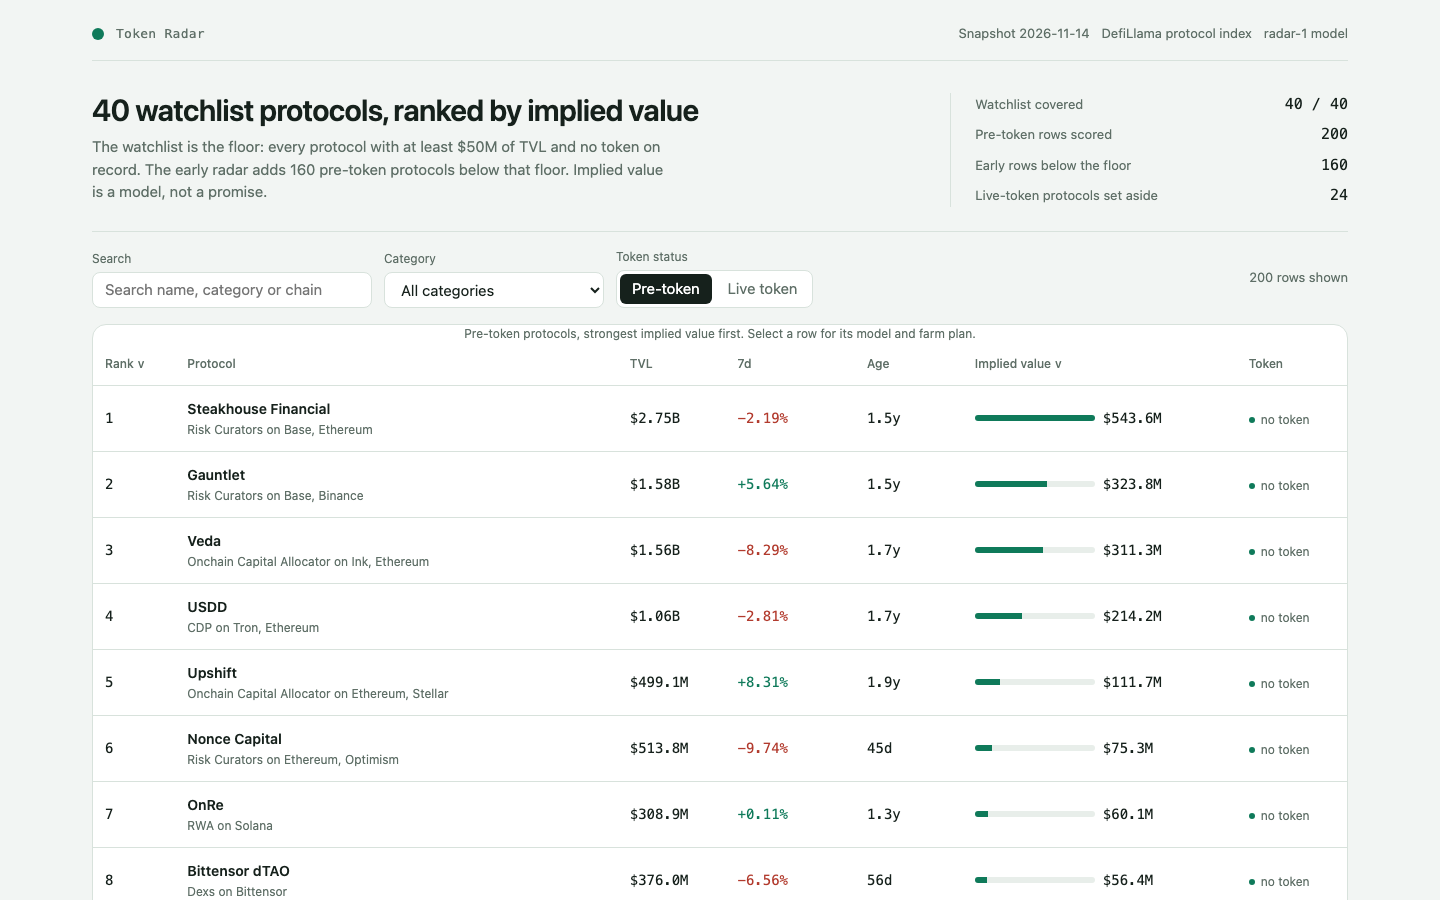
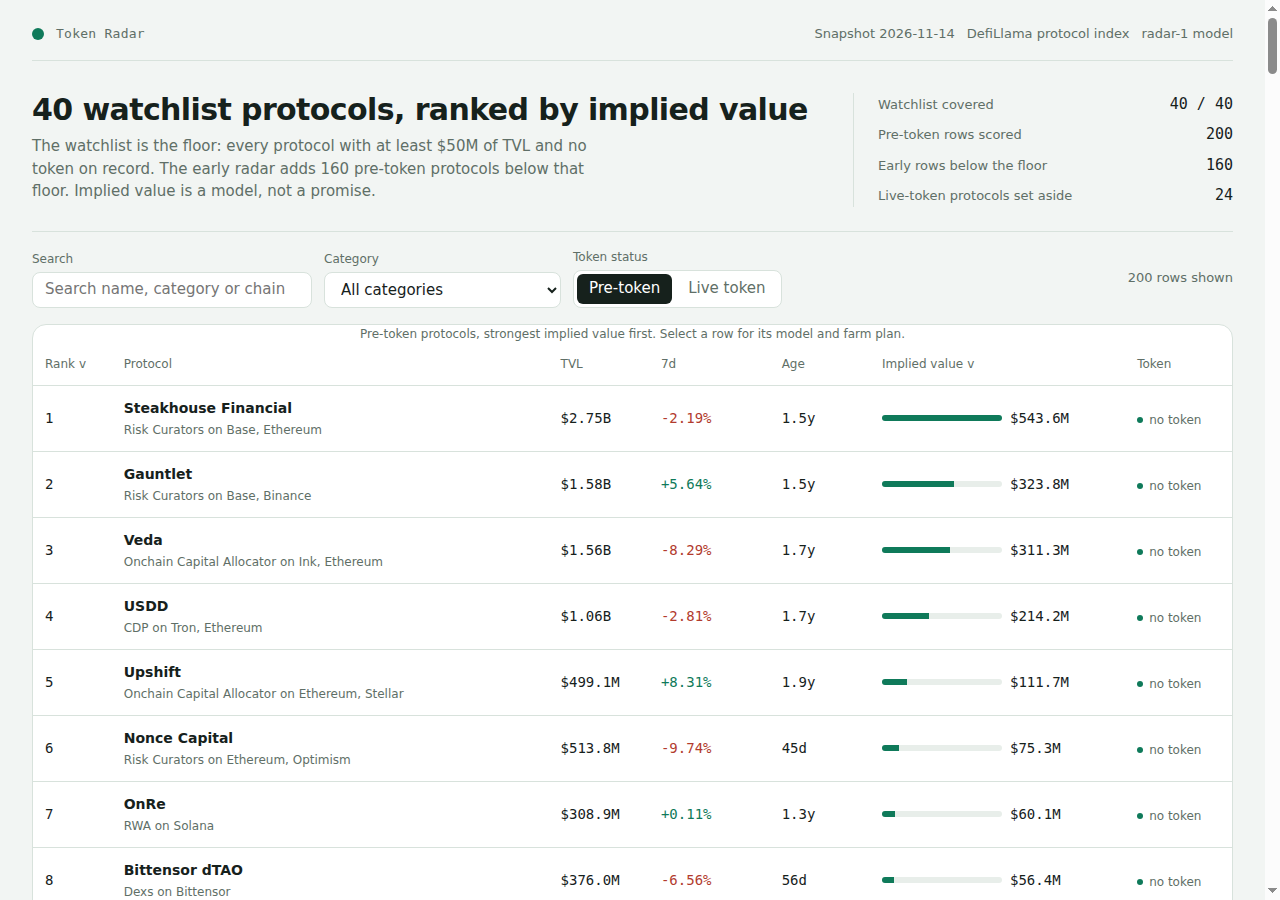
Board farm plans rendered verbatim; fresh screenshots
data.js rows now carry the farm_steps board.json holds, and the detail view
renders them instead of regenerating a plan in the page, so the screenshots
and the shipped code show the same steps. Screenshots retaken at 1280x900:
board, detail (bridging steps with cost and time), filtered by Lending.

diff --git a/dashboard/app.js b/dashboard/app.js
@@ -302,7 +302,7 @@
     state.selected = slug;
     writeHash();
     dialog.textContent = '';
-    var steps = farmSteps(row);
+    var steps = row.farm_steps || farmSteps(row);
     dialog.appendChild(el('div', { class: 'detail-head' },
       el('div', null,
         el('span', { class: 'brand-name', text: 'Rank ' + row.rank + ' of ' + DATA.board_size }),

diff --git a/lib/model.ts b/lib/model.ts
@@ -288,6 +288,7 @@ export function radarRow(row: BoardRow): RadarRow {
     age_days: row.age_days,
     implied_value_usd: row.implied_value_usd,
     growth_multiplier: row.model.growth_multiplier,
+    farm_steps: row.farm_steps,
     maturity_multiplier: row.model.maturity_multiplier,
   };
 }
